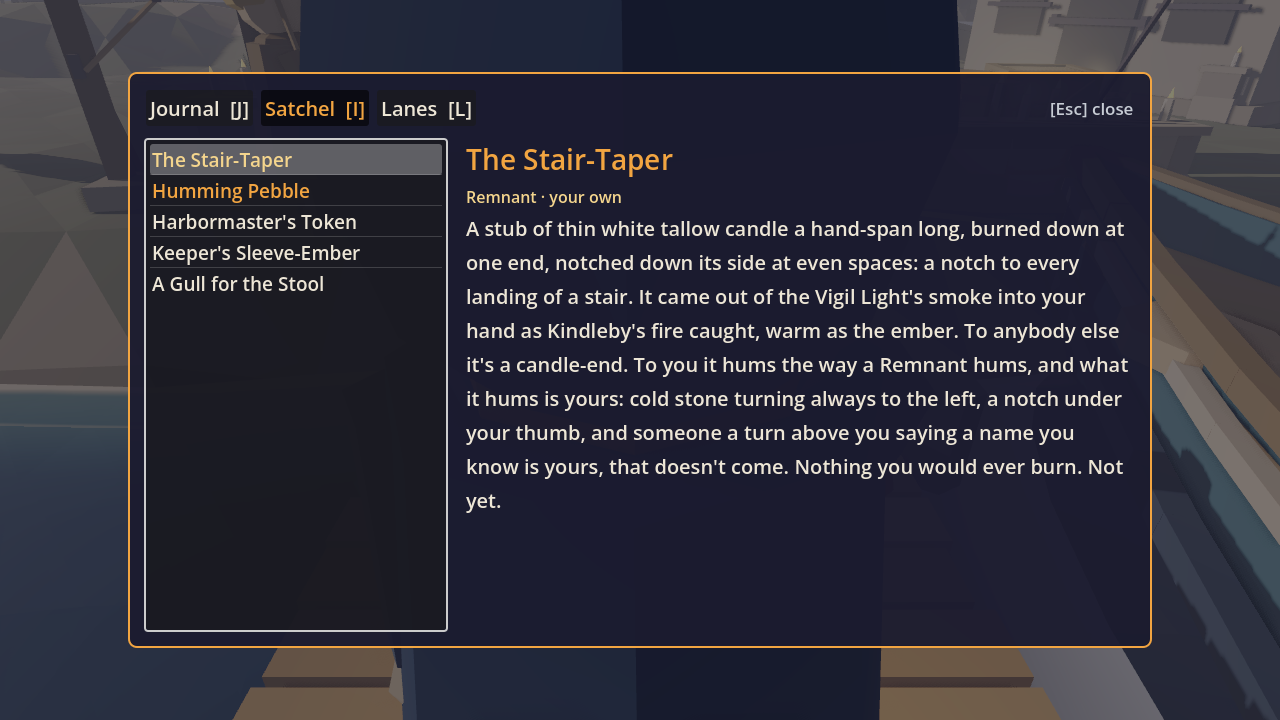
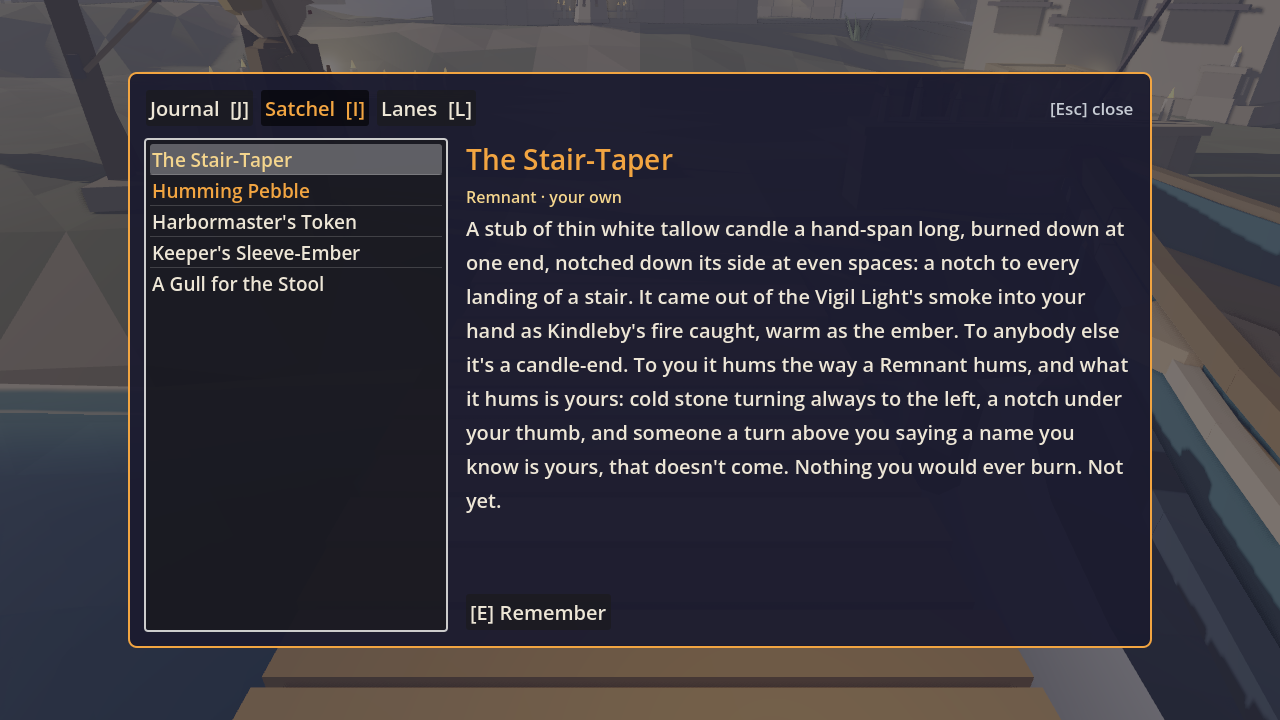
docs: devlog day 71, roadmap (art done; content next), tech, screenshots, checkpoint
Claude-Session: https://claude.ai/code/session_01G2g29mRWAeWqUftpZjR3hE

diff --git a/docs/ROADMAP.md b/docs/ROADMAP.md
@@ -553,50 +553,53 @@ each .glb < 5 MB.
       "third landing" and, after a full confession, the counting); new sound `remnant_hum`; debug `--remember`. The smoke
       walk remembers live. `test_remember.gd` (6).
 
+- [x] [A] **Art: Hild at work, a memory's own look** (Day 71): Blender `hild_scraping` — Hild stooped at the bow of
+      Kindleby's drawn-up skiff, knees bent, a long-handled scraper in both hands (modelled into the right arm), a heap of
+      weed at her feet; new `scrape` idle (sets of strokes, a breather to look at the work) that puts the work down and
+      straightens up while she talks (`CharacterRig.resting`, set by `NpcActor`). While a Remnant is remembered the world
+      behind the dialogue box goes soft, drained and dim (`remembering.gdshader` veil). The camera pushed right in on the
+      player hides the Wakebearer's body (no more looking out through their head). `test_hild_scraping.gd` (4).
+
 ### Next up
-1. [A] **Art (due ~Day 71-72; last Day 67): dressing follow-ups** (item 7 below) — Hild scraping the skiff on Kindleby (a
-   stooped pose with a scraper), someone at the quay bell's rope when Tobin walks off, Wrackholm's empty bracket, the
-   Teeth's broken water; or the skiff's pale tar in the Compatibility renderer. Remembering follow-up if it fits: a memory's
-   own look (the world dimmed behind the dialogue box while remembering; the camera currently sits in the player's head at
-   the Stair-Taper checkpoint's spawn).
-2. [C] **Act II's close, step 2 — the ring's last gap** (next content due ~Day 72-73; last Day 69): see LORE *Act II's
+1. [C] **Act II's close, step 2 — the ring's last gap** (next content due ~Day 72-73; last Day 69): see LORE *Act II's
    close*. Oda on the Low Water once Kindleby is lit (`lanes.json`: a sixth port in the south between Kindleby and
    Saltmarrow, known but its lane closed until asked); then the island itself (working name Lowsong; the fog heard as
    voices). Small follow-ups still open: the `stayed`
    ending's walk home (by oar, waving at the Mercy — Day 60); Pell aboard on Thornwold hearing Dunstan's home; Abe/Tolly or
    the Lamp on Wenna's bend; the colliers on Kindleby (Ottie looking north — does anyone go home?); Tobin/Oda noticing the
-   colliers on the wall; the Lamp (a Keeper) seeing the Stair-Taper.
-3. [P] **Color grading pass on a Vulkan machine** — sandbox screenshots (Compatibility
+   colliers on the wall; the Lamp (a Keeper) seeing the Stair-Taper; Hild's dialogue could mention the scraping now she's
+   at it (the weed from the Northing's water).
+2. [P] **Color grading pass on a Vulkan machine** — sandbox screenshots (Compatibility
    renderer) are washed out; verify palette reads correctly in Forward+ (incl. beacon glow,
    the Day 12 glow/contrast/saturation grading, SSAO strength, the water colours).
    Needs the owner to run the game locally and report back.
-4. [S] **Settings follow-ups** (deadzone, display/vsync, text speed and pad prompts landed Day 56): gamepad
+3. [S] **Settings follow-ups** (deadzone, display/vsync, text speed and pad prompts landed Day 56): gamepad
    rebinding (a Controls column for pad buttons); pad-specific glyph sets (PlayStation/Switch face names via
    `Input.get_joy_name`); a resolution/scale option for windowed mode. (The "[Esc] back" hints follow the pad since Day 61.)
-5. [S] **The Greying v2** (fold pieces into later sessions): fog pockets/banks on
+4. [S] **The Greying v2** (fold pieces into later sessions): fog pockets/banks on
    Saltmarrow and Shingle Point too (offshore, leaning back after the burn); the ember light
    pushing fog back in a small radius around the player; paths that fade in thick fog
    (LORE: "a road forgets where it goes" — now Thornwold's theme, the Thornwold content); a Hushed NPC
    drifting in a pocket; (the audio cue — muffle + heartbeat — landed Day 46); colourblind-safe meter check
    with the accessibility item. Consider a story flag
    when the player is first turned back (an NPC remarks on it).
-6. [S] **Audio follow-ups** (v1 landed Day 46): **a listening pass by the owner** (levels, the gulls' and
+5. [S] **Audio follow-ups** (v1 landed Day 46): **a listening pass by the owner** (levels, the gulls' and
    voices' timbre, whether the heartbeat is too much — export them with `tools/debug/export_sounds.gd`);
    **music** (the Music bus is still silent: a sparse procedural motif on the title screen and at each lighting
    would do for now); real recordings to replace recipes (`"file"`); sound sources placed in the world (surf at
    the shoreline instead of everywhere at once, the ferry's creak, the Unmoored's breath); paint-zone surfaces (a
    path of stone through grass) and NPC footsteps; dialogue `sound` on more story beats (the bramble wall parting,
    the Book shut, the horn on every sailing).
-7. [A] **Dressing follow-ups** (next art-led session due ~Day 71-72; last Day 67): Kindleby — the Quiet House's step
+6. [A] **Dressing follow-ups** (next art-led session due ~Day 75-76; last Day 71): Kindleby — the Quiet House's step
    candle at night once day/night exists, the chapter-house's interior wall, someone at the quay bell's rope when Tobin
-   walks off; Wrackholm's empty bracket; the Teeth's broken water; (Pell's gull: Day 67); a sound as the skiff comes in (oars, a creak); Hild scraping the
-   skiff's bottom on Kindleby (a stooped pose with a scraper); the skiff's tar reads pale in the Compatibility renderer.
+   walks off; Wrackholm's empty bracket; the Teeth's broken water; (Pell's gull: Day 67); a sound as the skiff comes in (oars, a creak); (Hild scraping the
+   skiff: Day 71 — a scrape sound on her strokes would suit the audio pass); the skiff's tar reads pale in the Compatibility renderer.
    Saltmarrow: paint contrast in the Compatibility renderer (walkway
    vs. slate); a lit-window variant for nights once day/night exists; (the brazier's ash raked after a `full` confession: Day 47); the mended lofts could get someone at work on
    them (Tam off the gate?) once Saltmarrow has more people. (Aldous seated and the gate lofts: Day 32.)
-8. [S] Interaction polish: camera framing during dialogue; fade the
-   player model when the camera is pushed in close behind them (a wall at their back).
-   (Facing while talking landed Day 14; the key hint hides in dialogue since Day 15.)
+7. [S] Interaction polish: camera framing during dialogue; a fade (rather than Day 71's hide) of the player model when
+   the camera is pushed in close behind them. (Facing while talking landed Day 14; the key hint hides in dialogue since
+   Day 15; the body hides under 0.9 m since Day 71.)
 
 ## Milestone 2 — Alpha (Act II begins)
 - [x] [C] **The crossing** — landed Day 17 (see Done).
@@ -691,8 +694,8 @@ each .glb < 5 MB.
 - Last polish/debt session: Day 68 (pass nine); next due by Day 76.
 - Last systems session: Day 70 (remembering from the satchel); next due by ~Day 75-76 (the Greying v2's ember pushing
   fog back, day/night, or gamepad rebinding).
-- Last art session: Day 67 (Kindleby's skiff, Pim and Hild, Pell's gull). Next art-led session due ~Day 71-72:
-  Wrackholm/Kindleby follow-ups or the Saltmarrow dressing follow-ups.
+- Last art session: Day 71 (Hild at work on the skiff; the remembering veil). Next art-led session due ~Day 75-76:
+  Wrackholm/Kindleby follow-ups (the quay bell's rope, the empty bracket, the Teeth's broken water) or Saltmarrow's.
 - The Northing (Day 53) follow-ups: the cairn's stones are lumps, not coursed slabs (fine at play distance); the ink
   scorch paint round its foot is angular; there are no step models at the head of the Keepers' steps (the waymark and the
   inspectable stand for them); (the flanks' drop: Day 54); Ottie's seated home sits on the cold

diff --git a/docs/TECH.md b/docs/TECH.md
@@ -134,7 +134,9 @@ Scenes are mostly built in code from data so content never requires editing `.ts
 **Camera (Day 15):** the player's orbit camera is placed by a `SpringArm3D` that only
 measures: it sweeps a 0.3 m sphere (`Player.CAMERA_PROBE_RADIUS`) out to 7 m on the world and
 camera layers; the camera jumps in to a hit at once and eases back out at
-`CAMERA_RETURN_SPEED` (`Player.next_camera_distance`). Every model prop with a `collider`
+`CAMERA_RETURN_SPEED` (`Player.next_camera_distance`). Pushed in under `CAMERA_HIDE_BODY` (0.9 m; Day 71) the
+Wakebearer's body is hidden (`Player.shows_body`; the ember's light stays) so the camera never looks out through the
+inside of their head. Every model prop with a `collider`
 whose mesh is ≥ `Region.CAMERA_BLOCK_MIN_HEIGHT` (2.4 m) tall gets a `CameraBlocker` (layer 4
 only) over its mesh bounds from the collider's top up — roofs, eaves, canopies. Automatic,
 no data field.
@@ -630,6 +632,12 @@ with `--camera=`.
   in his left hand on his thigh, the right hand rubbing his knee, and late in every `BOTTLE_PERIOD`
   (14 s) a swig (`bottle_swig`, 0..1: up 0.9 s, drink 1.4 s, down 1.2 s) — the bottle arm comes up
   and in (`SWIG_LIFT`/`SWIG_IN`), the head goes back (`SWIG_HEAD`), the shoulders lean back a little.
+  Day 71: `scrape` — a stooped model working a tool held in both hands (Hild at Kindleby's skiff): sets of
+  `SCRAPE_SET` strokes (`scrape_stroke`, 0..1: an eased push over 65% of `SCRAPE_PERIOD`, a quicker draw back), the
+  arms pushing together and the back rocking into each, then a `SCRAPE_BREATHER` straightening up
+  (`scrape_breather`, `SCRAPE_STRAIGHTEN`) with the head kept level. The tool is modelled into the right arm so it
+  travels with the strokes. **`CharacterRig.resting`** (set by `NpcActor` while talking) eases `rest` to 1 at
+  `REST_RATE`: work styles put the work down and straighten up for the conversation.
 - **Placement poses (Day 28):** a region's NPC placement may carry its own `model` and `idle`,
   which override the NPC's for that spot (`Region.placed_npc_data`; validated like the NPC's). Hob
   stands raking (`hob`, `rake`) in the clearing and sits on the camp bench (`hob_seated`, `sit`).
@@ -648,6 +656,10 @@ with `--camera=`.
   `sound` — any other effect (flags, quests, items, travel) is an error; the item reference counts as the dialogue's use.
   Every Remnant (`remnant`/`own`) has one, and nothing else does (`test_remember.gd`); each opens on `remnant_hum`.
   Debug: `--journal=satchel --remember` plays the first entry's memory (screenshots).
+  **A memory's own look (Day 71):** while remembering, `JournalUI`'s `RememberVeil` (a full-screen ColorRect on the
+  journal's layer 8 — over the HUD, under the dialogue box's 10) runs `assets/shaders/remembering.gdshader` on the screen
+  texture: a little softened (mip blur), drained toward a `kindle`-tinted grey, darker at the edges; `amount` eases in
+  over `VEIL_FADE` and drops to 0 when the satchel comes back (`veil_amount()` for tests). Works in Compatibility.
 - Quest: `id, title, description, stages: [{id, text}], giver?, region?, future?` — first
   stage is entered on `quest_start`. `future: true` silences the "never completed" warning
   for a quest whose ending isn't written yet (e.g. *Across the Grey*, the Act II bridge).
@@ -781,7 +793,9 @@ mirror the region; `_to_model`/`_to_world` convert between Godot world space and
 `tests/test_kindleby_skiff.gd` pins the placements and checks both rope ends land within 6 cm of the ring and the hand —
 move the skiff, Pim or the stage and rebuild the model. Its bow lantern's glass centre is `[0, 0.8, 1.25]` (the `halo`).
 Characters: `keeper_pim` (leaning back on a line; the slack and its coil a Stool extra) and `hild` (an oar stood beside
-her, a Stool extra); `_bare_keeper_head` = a Keeper with the hood pushed back. `build_dressing.py pell_gull` is modelled
+her, a Stool extra); `hild_scraping` (Day 71: stooped, knees bent, the scraper in both hands modelled into `ArmR`; its edge
+at `HILD_SCRAPER_EDGE` — `tests/test_hild_scraping.gd` checks the Kindleby placement puts it within 0.2 m of the skiff's
+hull, so move the skiff or Hild together; the kilted robe hangs from `LegL` so the stoop doesn't swing it out); `_bare_keeper_head` = a Keeper with the hood pushed back. `build_dressing.py pell_gull` is modelled
 at its place on a full-size crate's lid (z 0.8): place it with the crate's position.
 **New .glb files need `godot --headless --import` before a screenshot shows them** (a non-imported model is silently
 missing from the scene).
@@ -970,6 +984,11 @@ writes each as a .wav (never commit them).
 WorldState.to_dict()}`. Bump `SaveSystem.SAVE_VERSION` on breaking changes and add migration.
 
 ## Testing
+- `tests/test_hild_scraping.gd` — (Day 71) the `scrape` idle (strokes, the breather, feet planted, the work put down
+  while resting, easing in and out); Hild's Kindleby placement (the scraping model and idle exactly when the skiff is
+  home; the far shore keeps the oar; the scraper in the right arm; its edge on the hull; on the shingle and clear of
+  everyone); `NpcActor` sets `resting` while talking. `test_remember.gd` checks the veil; `test_polish.gd` the
+  close-camera body hide.
 - `tests/test_remember.gd` — (Day 70) remembering from the satchel: every Remnant holds a memory and nothing else does;
   memories change nothing and replay the same; the Stair-Taper's stair (Aldous's "third landing" and, after a full
   confession, the counting); the validator refuses a memory with an effect, a non-string or unknown memory; JournalModel

diff --git a/docs/DEVLOG.md b/docs/DEVLOG.md
@@ -2,6 +2,53 @@
 
 Newest entries first. Each entry: what was done, decisions & why, problems, next steps.
 
+## 2026-10-29 09:00 UTC — Day 71: Hild at work, a memory's own look (art)
+
+**Did**
+- Tooling: `tools/setup.sh` worked first try (Godot 4.7.2 + bpy 5.2.2). Detached HEAD again; reset `main` to `origin/main`
+  (Day 70's `c22afbf`).
+- **Art (due ~Day 71-72; last Day 67):** ROADMAP *Next up* #1.
+  - **Hild scraping the skiff:** Blender `hild_scraping` (`build_characters.py`, `_hild(scraping)` shared with the standing
+    `hild`): stooped 48° with the knees bent, a long-handled scraper in both hands — right on the grip, left pressing near
+    the blade — and a low heap of weed and salt-scurf at her feet. The scraper is modelled into `ArmR` so it travels with
+    the strokes; the kilted robe hangs from `LegL` so the stoop doesn't swing it out behind her. On Kindleby she now works
+    at the skiff's bow (moved from beside it with the oar; still on the shingle, the same conditions as the skiff). At the
+    Northing's stage she keeps the oar — waiting there, not working.
+  - **The `scrape` idle:** sets of five strokes (an eased push, a quicker draw back, the back rocking into each), then a
+    breather straightening up to look at the work, head kept level. New **`CharacterRig.resting`**: `NpcActor` sets it while
+    talking and work styles ease the work down and straighten up for the conversation, back to it after.
+  - **A memory's own look** (the Day 70 follow-up): while a Remnant is remembered, a veil on the journal's layer (over the
+    HUD, under the dialogue box) runs `assets/shaders/remembering.gdshader` on the screen — softened, drained to a
+    kindle-tinted grey, dim at the edges — easing in over 0.6 s and lifting as the satchel comes back.
+  - **No more looking out through the Wakebearer's head:** with the camera pushed in under 0.9 m (a wall at their back, the
+    Stair-Taper checkpoint's spawn) the body is hidden; the ember's light stays. (ROADMAP's interaction-polish "fade the
+    player model" — a hide for now.)
+- **Tests:** `test_hild_scraping.gd` (4: the idle's strokes/breather/planted feet/work put down; resting eases in and out;
+  the placement — model and idle, the far shore keeps the oar, the scraper in the right arm, its edge within 0.2 m of the
+  hull, on the shingle and clear of everyone; the actor rests while talking). `test_remember.gd` checks the veil;
+  `test_polish.gd` the body hide. 495 tests + smoke + launch pass.
+
+Screenshots (`docs/screenshots/2026-10-29-am-*.png`): `hild-scraping-the-skiff`, `remembering-veiled`. Checkpoint
+`the_stair_taper` re-shot (the camera no longer in the Wakebearer's head).
+
+**Decisions**
+- **At the bow, not along the side:** the candle ledge on the landward side runs the whole length of the skiff 0.6 m off
+  its strakes, and the seaward side would put her back in the wet the Day 67 fix took her out of. The bow is open shingle
+  and reads from the quay.
+- **The tool in the arm, not a static extra:** Hob's rake and Pim's line are Stool extras the hands slide along; a scraper
+  that stayed put while the arms pushed would look broken at once.
+- **Hide, not fade, the close-camera body:** a fade needs every imported material made transparent; hiding under 0.9 m
+  fixes what players actually see (the inside of a head) in a few lines. A fade stays on the roadmap.
+- **A screen-texture shader for the veil** rather than a dark ColorRect: a memory should look like somewhere else, not just
+  darker; it works in the Compatibility renderer.
+
+**Problems / notes**
+- None blocking. Hild's dialogue doesn't mention the scraping yet (noted for content).
+
+**Next run should**
+1. ROADMAP *Next up* #1 — **content (due ~Day 72-73; last Day 69): Act II's close, step 2 — the ring's last gap** (Oda
+   on the Low Water; then Lowsong). Fetch and reset `main` before trusting it.
+
 ## 2026-10-28 21:00 UTC — Day 70: remembering from the satchel (systems)
 
 **Did**

diff --git a/docs/CHECKPOINTS.md b/docs/CHECKPOINTS.md
@@ -1,7 +1,7 @@
 # Emberwake — Story checkpoints
 
 Where the game is up to, one screenshot per story checkpoint. Generated by
-`tools/checkpoints.sh` from `data/scenarios.json` (at commit `f9170cb`, 2026-10-28 09:25 UTC).
+`tools/checkpoints.sh` from `data/scenarios.json` (at commit `c22afbf`, 2026-10-29 09:30 UTC).
 
 Play from any of them: `godot --path . -- --scenario=<id>`, or in a debug build open the
 pause menu (Esc) → **Chapter select (dev)**. `--scenario=list` prints them all.
